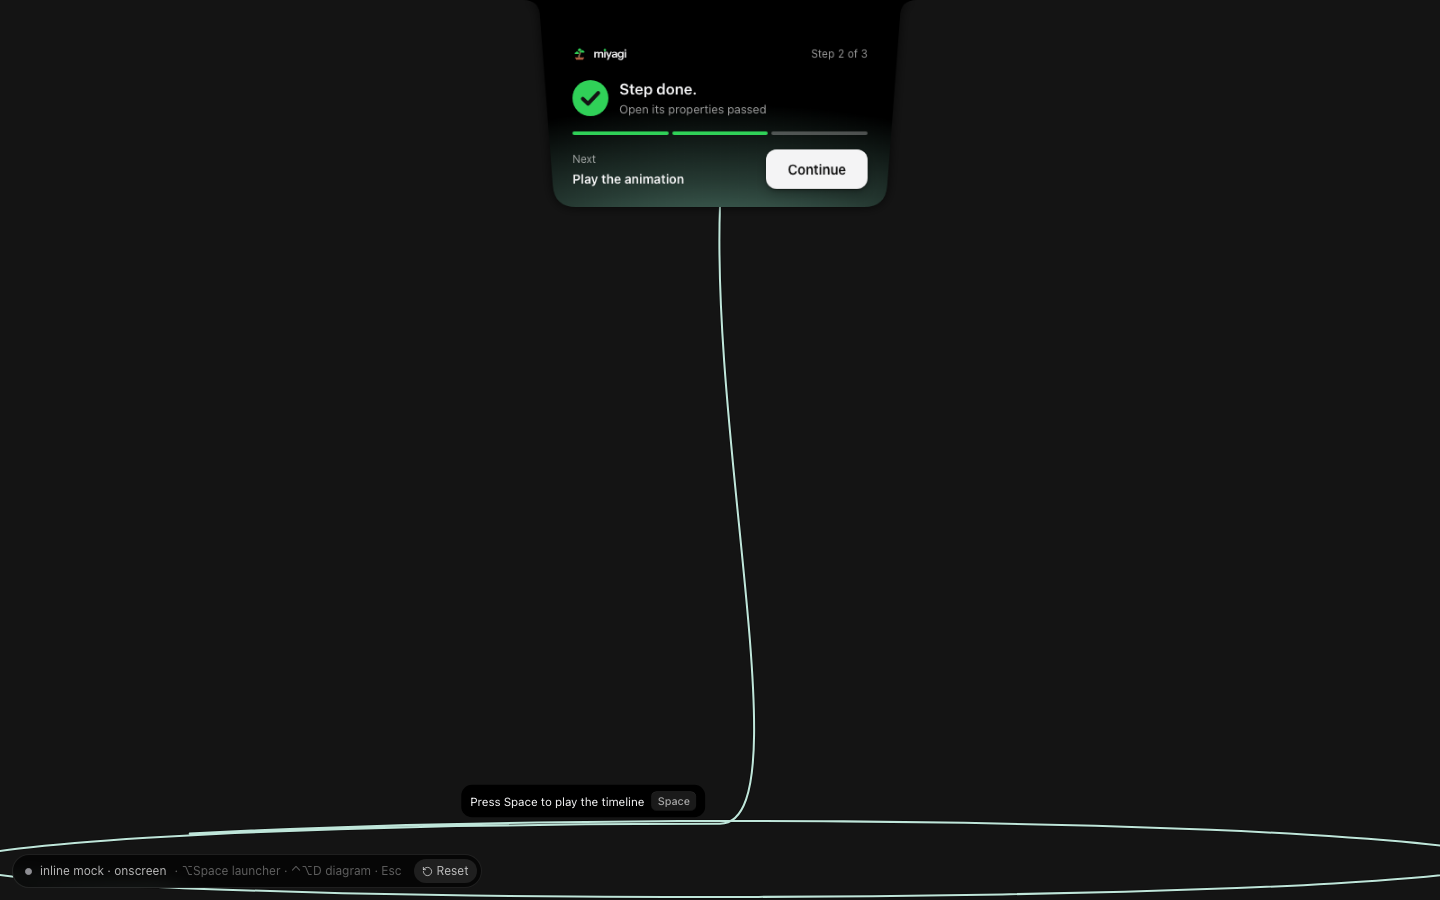
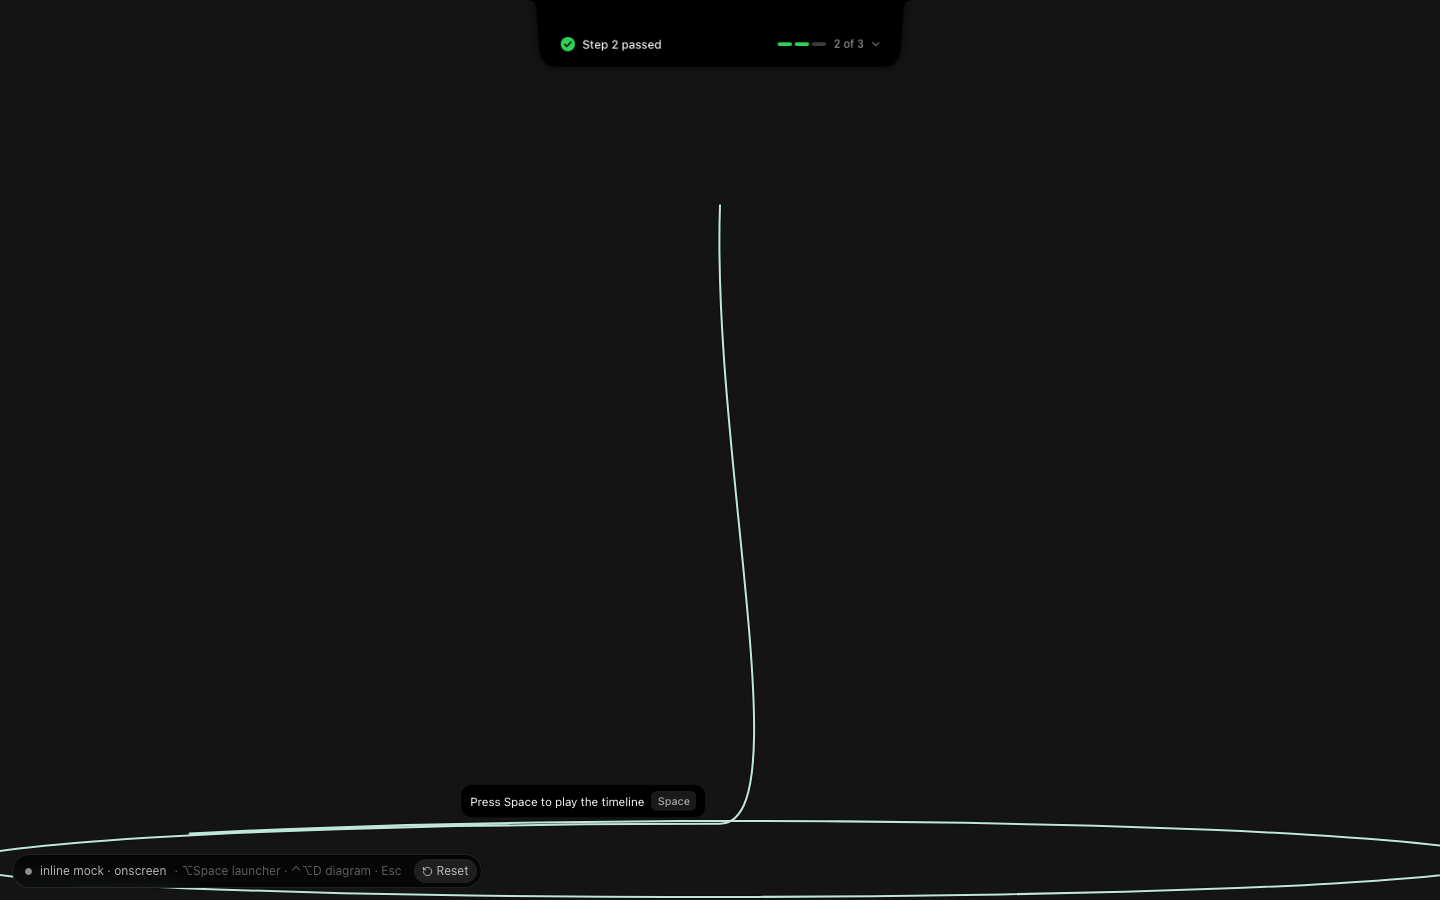
app-onscreen-coach: Show me and "Not yet" bring a reached text mark back; retake shots
Review round 1:
- store.ts: a Show me press, or a card with verdict not_done for the current step,
  is an explicit ask for engine annotates too. The next annotate runs askAgain on its
  marks, so a mark the learner reached or dismissed this step draws again with its
  text. If the engine's re-send arrived first (skipped as gone), the "Not yet" card
  draws it again itself. A bare re-send with no ask still stays gone.
- onscreen.test.ts: the pressed store stand-in is a tiny real store; tests for Esc +
  Show me, reach + "Not yet" (both orders), a "Not yet" for another step, and a bare
  re-send staying gone.
- shots: -collapsed.png is its own capture (draw=slow, mid-draw); -edge-right and
  -edge-bottom are retaken after Continue on the held "Step done" card.
- brief: the new ask rule, test counts, shot notes.

Changed region(s): [[0.375, 0.0311, 0.625, 0.2489], [0.5625, 0.0311, 0.5938, 0.0622]]

diff --git a/app/src/renderer/src/features/annotate/onscreen.test.ts b/app/src/renderer/src/features/annotate/onscreen.test.ts
@@ -1,7 +1,8 @@
 /**
  * On-screen coach (Nov 24), offline, with mock timers and no window:
  *   - store.ts: a text mark has no hold timer (it stays while its step is live), a plain mark still fades at 6 s; what
- *     takes a text mark away (another step, step.passed, Esc, annotate {clear}, a new lesson, not a replay).
+ *     takes a text mark away (another step, step.passed, Esc, annotate {clear}, a new lesson, not a replay); what brings
+ *     it back after the learner reached or dismissed it (a Show me press, a "Not yet" for this step; never a bare re-send).
  *   - onscreen.ts: lesson.ready with lesson.app asks core's `panel` UI event to collapse, once, after the drawer's own
  *     lesson.ready handler; never without app, never on a replay.
  * `node --import tsx --test src/renderer/src/features/annotate/onscreen.test.ts`
@@ -11,14 +12,32 @@ import { mkdtempSync, writeFileSync } from 'node:fs'
 import { registerHooks } from 'node:module'
 import { tmpdir } from 'node:os'
 import { join } from 'node:path'
-import { afterEach, beforeEach, describe, it, mock } from 'node:test'
+import { after, afterEach, before, beforeEach, describe, it, mock } from 'node:test'
 import { pathToFileURL } from 'node:url'
 
 // store.ts imports the spotlight store and core/shortcuts late (its spotlight bridge); they pull in the whole renderer.
-// Here they are inert stand-ins: nothing in these tests goes through the bridge.
+// Here they are tiny stand-in stores: the spotlight one stays still, the pressed one lets a test press Show me.
 const dir = mkdtempSync(join(tmpdir(), 'onscreen-'))
 const STUB = pathToFileURL(join(dir, 'stub.mjs')).href
-writeFileSync(join(dir, 'stub.mjs'), 'const store = { subscribe: () => () => {}, getState: () => ({}) }\nexport const useSpotlight = store\nexport const usePressed = store\n')
+writeFileSync(
+  join(dir, 'stub.mjs'),
+  [
+    'function store(init) {',
+    '  let s = init',
+    '  const subs = new Set()',
+    '  return {',
+    '    getState: () => s,',
+    '    setState: (p) => { const was = s; s = { ...s, ...p }; subs.forEach((f) => f(s, was)) },',
+    '    subscribe: (f) => { subs.add(f); return () => subs.delete(f) }',
+    '  }',
+    '}',
+    // One pair per process: store.ts may load this file apart from the test (its own module instance).
+    'const stubs = (globalThis.__annotateStubs ??= { useSpotlight: store({}), usePressed: store({ kind: undefined, at: 0 }) })',
+    'export const useSpotlight = stubs.useSpotlight',
+    'export const usePressed = stubs.usePressed',
+    ''
+  ].join('\n')
+)
 registerHooks({
   resolve(specifier, context, next) {
     if (context.parentURL?.includes('/features/annotate/store') && /(spotlight\/store|core\/shortcuts)$/.test(specifier)) return { url: STUB, shortCircuit: true }
@@ -29,7 +48,7 @@ registerHooks({
 mock.timers.enable({ apis: ['setTimeout', 'Date'], now: 1_000_000 })
 
 const { dispatch, emitUi, onMessage, onUi } = require('../../core/bus') as typeof import('../../core/bus')
-const { useAnnotate } = require('./store') as typeof import('./store')
+const { fade, useAnnotate } = require('./store') as typeof import('./store')
 require('./onscreen')
 
 const send = (type: string, payload: unknown): void => dispatch({ type, payload } as never)
@@ -54,6 +73,18 @@ beforeEach(() => {
   log.length = 0
 })
 afterEach(() => mock.timers.runAll())
+
+/** The stand-in pressed store, once store.ts's late import of it has resolved. */
+let pressed: { setState: (p: { kind?: string; at: number }) => void }
+before(async () => {
+  await new Promise((r) => setImmediate(r))
+  pressed = (globalThis as unknown as { __annotateStubs: { usePressed: typeof pressed } }).__annotateStubs.usePressed
+})
+after(() => mock.timers.reset())
+const press = (kind: string): void => pressed.setState({ kind, at: Date.now() })
+const notYet = (stepId: string): void => send('card', { kind: 'step', title: 'Not yet', body: '', source: 'judge', verdict: 'not_done', stepId })
+const startS1 = (): void => send('step.started', { stepId: 's1', index: 0, title: 't', instructions: 'i' })
+const reach = (): void => fade([(useAnnotate.getState().marks[0] as { key: string }).key])
 
 describe('text mark hold (store.ts)', () => {
   it('a text mark has no fade timer; a plain mark still fades at 6 s', () => {
@@ -94,10 +125,54 @@ describe('text mark hold (store.ts)', () => {
     send('step.passed', { stepId: 's1' })
     assert.deepEqual(ids(), [])
   })
-  it('Esc removes it, and a re-send this step does not bring it back', () => {
+  it('Esc removes it; a plain re-send this step (no ask) does not bring it back', () => {
+    startS1()
     send('annotate', { marks: [textMark] })
     emitUi('dismiss')
     assert.deepEqual(ids(), [])
+    send('annotate', { marks: [textMark] })
+    assert.deepEqual(ids(), [])
+  })
+  it('Esc, then Show me: the re-send draws it again with its text', () => {
+    startS1()
+    send('annotate', { marks: [textMark] })
+    emitUi('dismiss')
+    press('show_me')
+    send('annotate', { marks: [textMark] })
+    assert.deepEqual(ids(), ['os-s1-1'])
+    assert.equal(marks()[0].text, 'Add a torus from the Add menu')
+    // The ask is spent: reached again, a bare re-send stays gone.
+    reach()
+    send('annotate', { marks: [textMark] })
+    assert.deepEqual(ids(), [])
+  })
+  it('reached, then "Not yet" for this step: the re-send draws it again', () => {
+    startS1()
+    send('annotate', { marks: [textMark] })
+    reach()
+    assert.deepEqual(ids(), [])
+    notYet('s1')
+    assert.deepEqual(ids(), [], 'the card alone draws nothing new')
+    send('annotate', { marks: [textMark] })
+    assert.deepEqual(ids(), ['os-s1-1'])
+    assert.equal(marks()[0].text, 'Add a torus from the Add menu')
+    mock.timers.tick(60_000)
+    assert.deepEqual(ids(), ['os-s1-1'], 'still untimed')
+  })
+  it('reached, a re-send first (skipped), then "Not yet": the card draws it again', () => {
+    startS1()
+    send('annotate', { marks: [textMark] })
+    reach()
+    send('annotate', { marks: [textMark] })
+    assert.deepEqual(ids(), [])
+    notYet('s1')
+    assert.deepEqual(ids(), ['os-s1-1'])
+  })
+  it('a "Not yet" for another step is not an ask', () => {
+    startS1()
+    send('annotate', { marks: [textMark] })
+    emitUi('dismiss')
+    notYet('s0')
     send('annotate', { marks: [textMark] })
     assert.deepEqual(ids(), [])
   })

diff --git a/app/src/renderer/src/features/annotate/store.ts b/app/src/renderer/src/features/annotate/store.ts
@@ -20,6 +20,10 @@
  * timed. It stays while its step is live and goes on step.passed, a step.started for another step, lesson.ended, a new
  * (non-replay) lesson.ready, Esc, annotate {clear}, a replacing annotate, or the learner reaching it. Marks without text
  * keep the hold above.
+ * An explicit ask brings pointing back after the learner reached or dismissed it: a Show me press ("where?"), or a
+ * "Not yet" card (verdict not_done) for the current step. The engine re-sends the point mark then (same id), and the
+ * next annotate after the ask draws its marks again even if they are gone this step. If the re-send came first (it was
+ * skipped as gone), the "Not yet" draws it again itself. A re-send with no ask stays gone.
  * Nothing here takes the mouse: the layer is click-through, always.
  */
 import { create } from 'zustand'
@@ -42,6 +46,12 @@ let engineAnnotates = false
 /** The last spotlight box bridged, so the engine's re-reads of one box draw it once. */
 let lastSpot: Rect | undefined
 const SPOT_JITTER = 8
+/** The step now running (step.started), so a "Not yet" for it counts as an ask. */
+let curStep: string | undefined
+/** A Show me press or a "Not yet" for this step, not yet answered by an engine annotate: that annotate draws again. */
+let engineAsked = false
+/** The marks of this step's latest annotate that were skipped as gone (and its hold): a "Not yet" draws them again. */
+let dropped: { marks: Annotation[]; holdMs: number } | undefined
 
 function stopHold(): void {
   clearTimeout(hold)
@@ -65,6 +75,8 @@ function forget(): void {
   gone.clear()
   lastAsk = undefined
   lastSpot = undefined
+  engineAsked = false
+  dropped = undefined
   if (get().marks.length) set({ marks: [] })
 }
 
@@ -109,12 +121,39 @@ onMessage('annotate', (p) => {
   if (!p || typeof p !== 'object') return
   if ('clear' in p && p.clear) return fade()
   if (!('marks' in p)) return
-  show(validMarks(p.marks), holdFor(p.holdMs))
+  const marks = validMarks(p.marks)
+  const holdMs = holdFor(p.holdMs)
+  // The answer to an explicit ask (Show me, "Not yet"): its marks are born again even if reached or dismissed.
+  if (engineAsked) {
+    engineAsked = false
+    marks.forEach(askAgain)
+  }
+  show(marks, holdMs)
+  const drawn = get().marks
+  const skipped = marks.filter((m) => !sameMarkKeys(m, drawn).length)
+  dropped = skipped.length ? { marks: skipped, holdMs } : undefined
+})
+
+// "Not yet" for the step now running: the learner still needs the pointing, so it counts as an ask.
+onMessage('card', (p) => {
+  if (p?.verdict !== 'not_done' || !p.stepId || p.stepId !== curStep) return
+  if (!dropped) {
+    engineAsked = true
+    return
+  }
+  // The engine's re-send came before the card and was skipped as gone: draw it again now.
+  const again = dropped
+  dropped = undefined
+  again.marks.forEach(askAgain)
+  show(again.marks, again.holdMs)
 })
 
 onMessage('step.started', (p) => {
+  if (p?.stepId) curStep = p.stepId
   if (p?.replay) return // a reconnect's replay of the step already running: not a new step
   const step = p?.stepId
+  engineAsked = false
+  dropped = undefined
   const keep = get().marks.filter((m) => m.stepId && m.stepId === step)
   stopHold()
   gone.clear()
@@ -124,11 +163,19 @@ onMessage('step.started', (p) => {
   const now = Date.now()
   holdTimed(keep, timedMarks(keep).length ? now + DEFAULT_HOLD_MS : undefined, now)
 })
-onMessage('step.passed', forget)
-onMessage('lesson.ended', forget)
+onMessage('step.passed', () => {
+  curStep = undefined
+  forget()
+})
+onMessage('lesson.ended', () => {
+  curStep = undefined
+  forget()
+})
 // A reconnect's replay of the lesson already running is not a new lesson: what is drawn stays.
 onMessage('lesson.ready', (p) => {
-  if (!p?.replay) forget()
+  if (p?.replay) return
+  curStep = undefined
+  forget()
 })
 onUi('reset', () => {
   forget()
@@ -147,6 +194,8 @@ void Promise.all([import('../spotlight/store'), import('../../core/shortcuts')])
   usePressed.subscribe((p, was) => {
     if (!p.kind || (p.kind === was.kind && p.at === was.at)) return
     showMeAsked = p.kind === 'show_me'
+    // Show me ("where?") asks the engine too: its next annotate draws even marks already reached or dismissed.
+    if (showMeAsked) engineAsked = true
   })
   onMessage('step.started', () => (showMeAsked = false))
   useSpotlight.subscribe((s, prev) => {

diff --git a/app/agents/app-onscreen-coach.md b/app/agents/app-onscreen-coach.md
@@ -18,6 +18,11 @@ island; the steps list stays one click away (the Mini pill).
     stepId (kept for the same stepId), lesson.ended, a non-replay lesson.ready, Esc, annotate {clear}, a replacing
     annotate, or the learner reaching it (createReach). Marks without text keep the 6 s default. A replayed
     lesson.ready no longer wipes the drawn marks (it is the same lesson).
+    Reached or dismissed marks stay gone this step against a bare re-send, but an explicit ask brings them back
+    (review round 1): a Show me press ("where?"), or a `card` with verdict `not_done` for the current stepId ("Not yet").
+    The next annotate after the ask runs `askAgain` on its marks (they are born again, with their text). If the
+    engine's re-send came before the "Not yet" card (skipped as gone), the card draws it again itself. The panel is
+    collapsed in app lessons, so this is the learner's only pointing.
   - `geometry.ts`: pure `textSpot(ring, target, size, box, branch?)`: right of the loop, else left, below, above
     (LABEL_GAP from it); never over the target or the loop's box; 16 pt inside the display; slides along the loop to
     stay 10 pt off the buddy's line; when no side fits, the side covering least of the loop with the target uncovered.
@@ -46,15 +51,22 @@ island; the steps list stays one click away (the Mini pill).
   the Add menu" and its keycap to the right.
 - ~15 s: step 2, a target at the right edge: the text flips to the left of the loop.
 - ~30 s: step 3, a bar along the bottom: the text sits above it, beside the line.
-- Click the Mini pill (the island): the steps panel opens; the text stays. Esc fades the text.
+- Click the Mini pill (the island): the steps panel opens; the text stays. Esc fades the text; Show me (in the
+  panel, or its shortcut) draws it again.
+- After a pass the drawer holds "Step done" on the island until Continue / Next step; the next step's mark is
+  already drawn under it.
 - Compare http://localhost:5205/?scenario=lesson-panel (no lesson.app): the drawer still opens as before.
 
 Checks run (Nov 24): `npm run typecheck`; `node --import tsx --test src/renderer/src/features/annotate/*.test.ts`
-(83 pass); `npm test` (746 pass, no failures); brand lint on the added lines in app/src (no hex, rgba, hand-typed
+(87 pass, round 1: Show me / "Not yet" bring a reached or dismissed text mark back, a bare re-send does not);
+`npm test` (746 pass, no failures); brand lint on the added lines in app/src (no hex, rgba, hand-typed
 keycaps, Cursor, dangerouslySetInnerHTML, green, capital M; test keycaps are escaped engine data).
 
 Shots (headless Chromium, 1440x900, the stage scales a 1600x1000 display):
 `agents/shots/app-onscreen-coach-circle.png`, `-collapsed.png`, `-edge-right.png`, `-edge-bottom.png`, `-steps.png`.
+- `-collapsed.png` is its own capture (`&draw=slow`, mid-draw, the island collapsed to "Click to reopen · 1 of 3").
+- `-edge-right.png` / `-edge-bottom.png` are taken after pressing Continue on the held "Step done" card, so they show
+  only the live step (the Mini pill still reads "Step n passed", the drawer's own wording).
 
 ## Unverified
 - Nothing ran in Electron or against a live engine: no real `annotate` with text, no real `lesson.app`.
